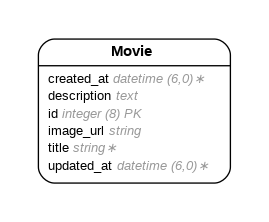
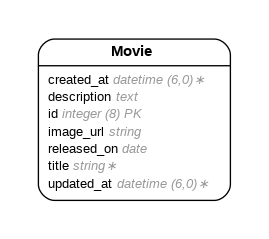
created partials for show and edit.html.erb

Changed region(s): [[0.119, 0.1351, 0.8625, 0.8649]]

diff --git a/db/schema.rb b/db/schema.rb
@@ -10,7 +10,7 @@
 #
 # It's strongly recommended that you check this file into your version control system.
 
-ActiveRecord::Schema[8.0].define(version: 2025_05_11_231016) do
+ActiveRecord::Schema[8.0].define(version: 2025_05_12_223219) do
   # These are extensions that must be enabled in order to support this database
   enable_extension "pg_catalog.plpgsql"
 
@@ -20,6 +20,7 @@ ActiveRecord::Schema[8.0].define(version: 2025_05_11_231016) do
     t.datetime "created_at", null: false
     t.datetime "updated_at", null: false
     t.string "image_url"
+    t.date "released_on"
   end
 
   create_table "solid_cable_messages", force: :cascade do |t|

diff --git a/app/controllers/movies_controller.rb b/app/controllers/movies_controller.rb
@@ -58,6 +58,6 @@ class MoviesController < ApplicationController
   private
 
   def movie_params
-    params.require(:movie).permit(:title, :description, :image_url)
+    params.require(:movie).permit(:title, :description, :image_url, :released_on)
   end
 end

diff --git a/app/models/movie.rb b/app/models/movie.rb
@@ -5,6 +5,7 @@
 #  id          :bigint           not null, primary key
 #  description :text
 #  image_url   :string
+#  released_on :date
 #  title       :string
 #  created_at  :datetime         not null
 #  updated_at  :datetime         not null

diff --git a/db/migrate/20250512223219_add_released_on_to_movies.rb b/db/migrate/20250512223219_add_released_on_to_movies.rb
@@ -1,0 +1,5 @@
+class AddReleasedOnToMovies < ActiveRecord::Migration[8.0]
+  def change
+    add_column :movies, :released_on, :date
+  end
+end
